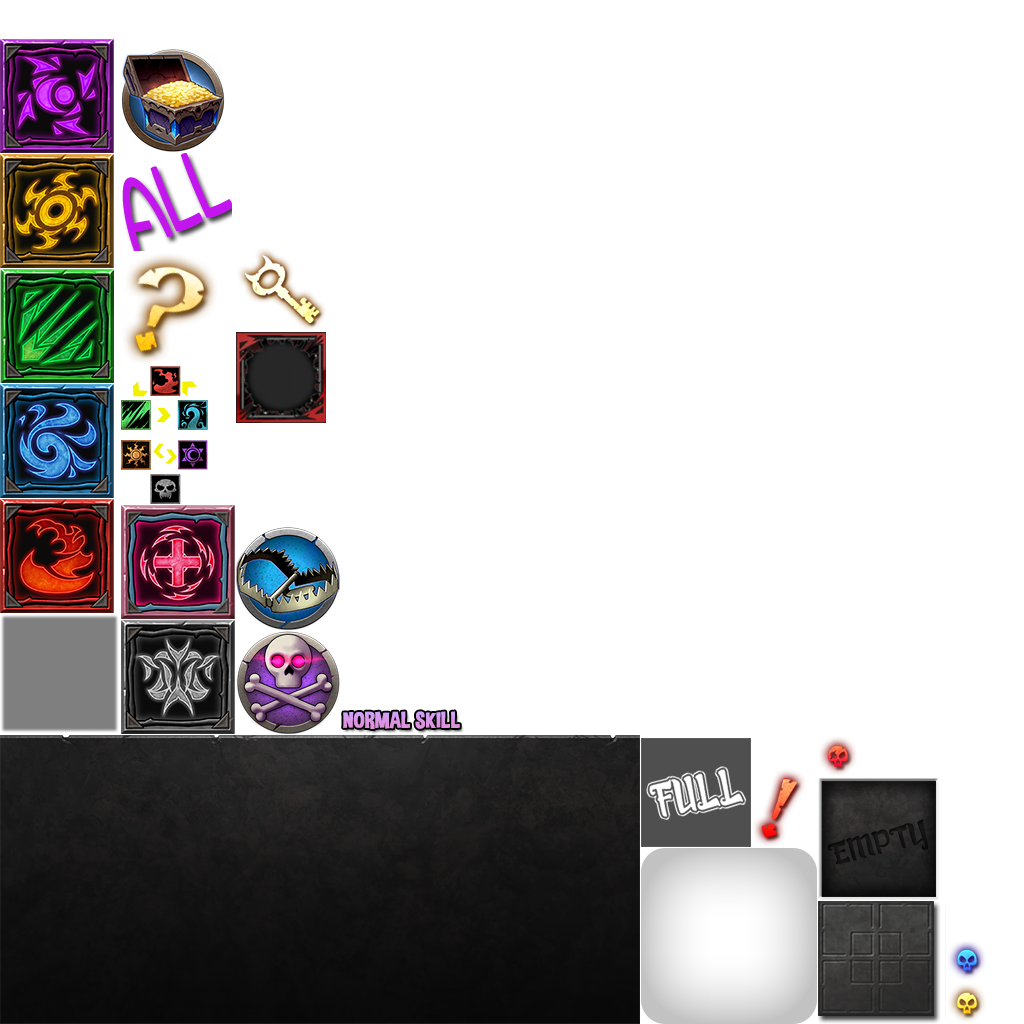
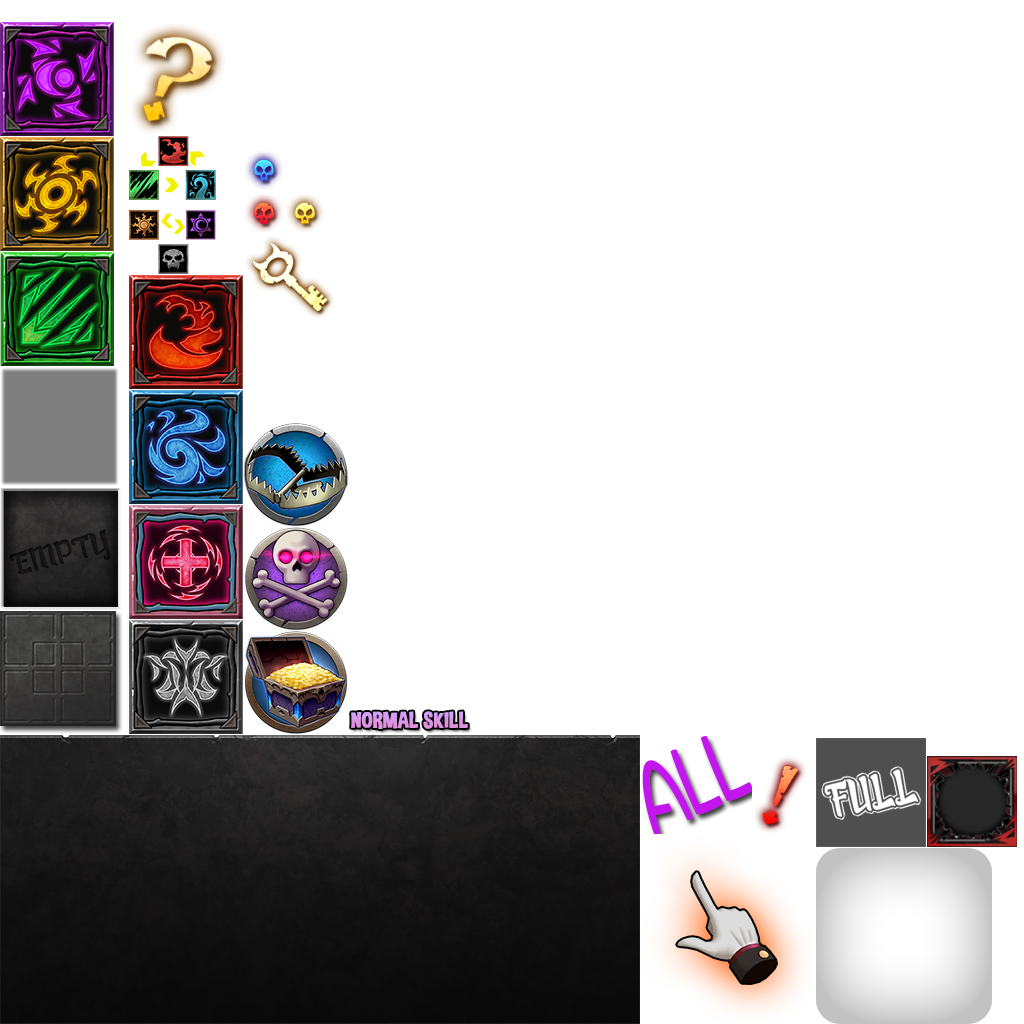
no message

Changed region(s): [[0.0, 0.0, 0.4688, 0.7188], [0.625, 0.7188, 1.0, 1.0]]

diff --git a/Assets/_Scripts/Controller/BattleUI/Reconstruction/BattleOperate/Battle.cs b/Assets/_Scripts/Controller/BattleUI/Reconstruction/BattleOperate/Battle.cs
@@ -105,6 +105,8 @@ public class Battle : UIBase {
 		MsgCenter.Instance.AddListener (CommandEnum.ExcuteActiveSkill, ExcuteActiveSkillInfo);
 		MsgCenter.Instance.AddListener (CommandEnum.UserGuideAnim, UserGuideAnim);
 		MsgCenter.Instance.AddListener (CommandEnum.UserGuideCard, UserGuideCard);
+
+		UserGuideAnim (null);
 	}
 
 	private byte[] indexArray = new byte[19]{ 3, 2, 2, 1, 1, 1, 2, 2, 2, 2, 1, 2, 3, 3, 3, 2, 3, 2, 1 };
@@ -134,9 +136,6 @@ public class Battle : UIBase {
 			ShowGuideAnim ();
 		} else {
 			bool b = (bool)data;
-
-
-
 			ShowGuideAnim(b);
 		}
 	}
@@ -144,9 +143,7 @@ public class Battle : UIBase {
 	bool shileInputByNoviceGuide = false;
 	public void ShowGuideAnim(bool rePlay = false) {
 		MsgCenter.Instance.Invoke (CommandEnum.ShiledInput, true);
-
 		shileInputByNoviceGuide = true;
-
 		if (rePlay) {
 			battleData.storeBattleData.colorIndex -= 19;
 			GenerateShowCard();
@@ -155,16 +152,32 @@ public class Battle : UIBase {
 		GameTimer.GetInstance ().AddCountDown (1f, GuideCardAnim);
 	}
 
+	const float moveTime = 0.2f;
+
 	GameTimer gameTimer;
 	public void GuideCardAnim() {
 		MsgCenter.Instance.AddListener(CommandEnum.AttackEnemyEnd, AttackEnemyEnd);
 		ConfigBattleUseData.Instance.NotDeadEnemy = true;
 		gameTimer = GameTimer.GetInstance ();
 		GameObject target = battleCard.cardItemArray [3].gameObject;
+
 		Vector3 toPosition = battleCard.cardItemArray [2].transform.position;
 		selectTarget.Add ( battleCard.cardItemArray [3] );
-		iTween.MoveTo ( target, iTween.Hash ("position", toPosition, "time", 0.2f) );
+//		float time = 0.2f;
+		iTween.MoveTo ( target, iTween.Hash ("position", toPosition, "time", moveTime) );
+		MoveFinger (target.transform.position, toPosition, moveTime);
+
 		gameTimer.AddCountDown ( 0.22f, AnimStep1 );
+	}
+
+	void MoveFinger(Vector3 startPosition, Vector3 toPosition, float time) {
+		if (!battleCard.fingerObject.activeSelf) {
+			battleCard.fingerObject.SetActive (true);	
+		}
+	
+		battleCard.fingerObject.transform.position = startPosition;
+
+		iTween.MoveTo ( battleCard.fingerObject, iTween.Hash ("position", toPosition, "time", time) );
 	}
 
 	void AttackEnemyEnd(object data) {
@@ -212,6 +225,7 @@ public class Battle : UIBase {
 	}
 
 	void AnimStep4() {
+
 		GenerateAllCard (new List<int> { 0 }, 0 , AnimStep5);
 	}
 
@@ -236,12 +250,8 @@ public class Battle : UIBase {
 	}
 
 	void AnimEnd() {
+		battleCard.fingerObject.SetActive (false);
 		MsgCenter.Instance.Invoke (CommandEnum.ShiledInput, false);
-//		shileInputByNoviceGuide = false;
-//		ShieldInput (true);
-//		ConfigBattleUseData.Instance.NotDeadEnemy = false;
-
-//		Debug.LogError("GuideAnimEnd");
 	}
 
 	int generateIndex = 0;
@@ -267,7 +277,8 @@ public class Battle : UIBase {
 		GameObject target = ci.gameObject;
 		Vector3 toPosition = battleCardArea.battleCardAreaItem [generateIndex].transform.position;
 		selectTarget.Add (ci);
-		iTween.MoveTo (target, iTween.Hash ("position", toPosition, "time", 0.2f));
+		MoveFinger (target.transform.position, toPosition, moveTime);
+		iTween.MoveTo (target, iTween.Hash ("position", toPosition, "time", moveTime));
 		gameTimer.AddCountDown (0.23f, GenerateCardEnd);
 	} 
 
@@ -293,23 +304,28 @@ public class Battle : UIBase {
 		}
 
 		int nextIndex = cardIndex + 1;
-
+		GameObject target = selectTarget [startIndex].gameObject;
 		if (nextIndex == fromIndexCache.Count) {
-			iTween.MoveTo (selectTarget [startIndex].gameObject, battleCardArea.battleCardAreaItem [generateIndex].transform.position, 0.2f);
+			iTween.MoveTo (target, battleCardArea.battleCardAreaItem [generateIndex].transform.position, moveTime);
+
 			gameTimer.AddCountDown(0.24f, MoveAllToPosition);
+
+			MoveFinger(target.transform.position, battleCardArea.battleCardAreaItem [generateIndex].transform.position, moveTime);
 		} else {
 			CardItem nextCi = battleCard.cardItemArray [fromIndexCache [nextIndex]];
 
 			cardIndex = nextIndex;
 
-			iTween.MoveTo (selectTarget[startIndex].gameObject, nextCi.transform.position, 0.2f);
+			iTween.MoveTo (target, nextCi.transform.position, 0.2f);
 
 			gameTimer.AddCountDown (0.2f, MoveAllEnd);
+
+			MoveFinger(target.transform.position, nextCi.transform.position, moveTime);
 		}
 	}
 
 	void MoveAllToPosition() {
-		GameInput.OnUpdate += OnUpdate;
+		GameInput.OnUpdate -= OnUpdate;
 		GenerateCardEnd ();
 	}
 

diff --git a/Assets/_Scripts/Controller/BattleUI/Reconstruction/BattleOperate/BattleCard.cs b/Assets/_Scripts/Controller/BattleUI/Reconstruction/BattleOperate/BattleCard.cs
@@ -22,6 +22,8 @@ public class BattleCard : UIBaseUnity {
 
 	private BattleUseData battleUseData;
 
+	public GameObject fingerObject;
+
 	[HideInInspector]
 	public CardItem[] cardItemArray;
 
@@ -51,6 +53,8 @@ public class BattleCard : UIBaseUnity {
 
 	void InitParameter() {
 		templateItemCard = FindChild<UISprite>("Texture");
+		fingerObject = FindChild<UISprite> ("finger").gameObject;
+
 		int count = cardPosition.Length;
 		
 		cardItemArray = new CardItem[count];

diff --git a/Assets/_Scripts/View/UI/Loading/LoadingView.cs b/Assets/_Scripts/View/UI/Loading/LoadingView.cs
@@ -29,7 +29,7 @@ public class LoadingView : UIComponentUnity {
 
 		base.ShowUI ();
 		#if UNITY_ANDROID
-		Debug.Log ("Umeng.Start('android')...");
+//		Debug.Log ("Umeng.Start('android')...");
 		string channelId = "android";
 		Umeng.GA.StartWithAppKeyAndChannelId ("5374a17156240b3916013ee8", channelId);
 		//		Umeng.GA.Bonus.
